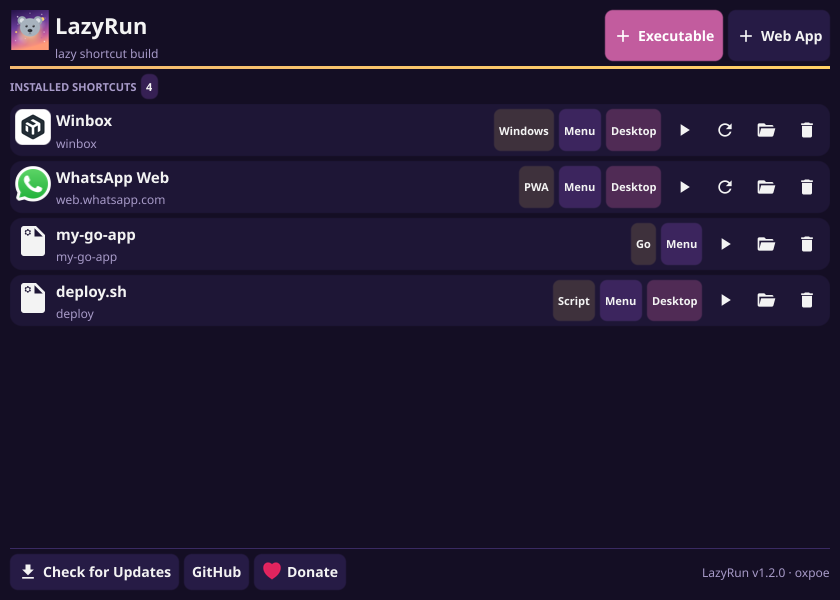
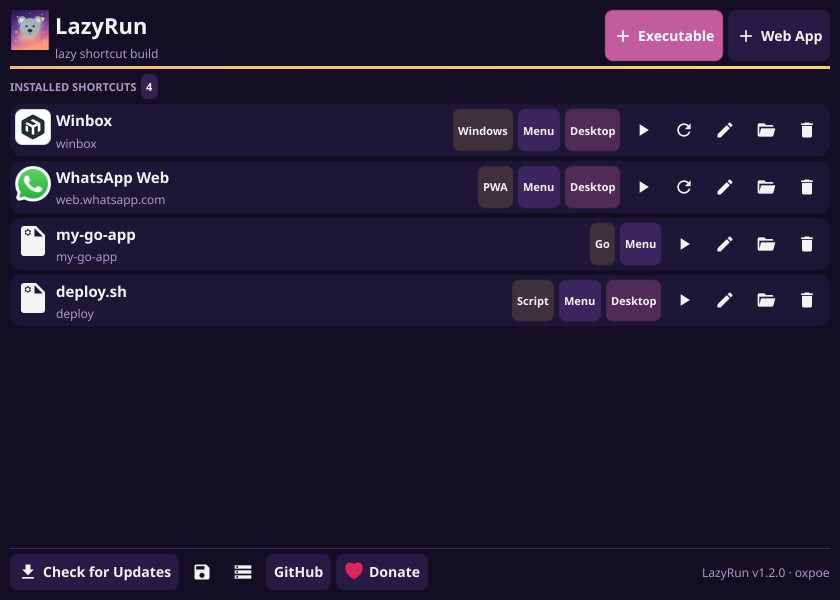
docs: screenshot fitur baru (tombol edit, export/import, progress bar)

Changed region(s): [[0.5262, 0.18, 0.8667, 0.54], [0.2167, 0.9, 0.5262, 0.99]]

diff --git a/README.md b/README.md
@@ -20,6 +20,11 @@ breathes while the app is open (the koala in `assets/logo.svg` is the mascot).*
   <img src="docs/dialog-icons.png" width="49%" alt="Icon search dialog">
 </p>
 
+<p align="center">
+  <img src="docs/dialog-loading.png" width="49%" alt="Progress bar while installing">
+  <img src="docs/main-light.png" width="49%" alt="LazyRun in light theme">
+</p>
+
 - **Repo:** <https://github.com/oxpoe/lazyrun>
 - **Donate:** <https://donasi.oxpoe.qzz.io/>
 
